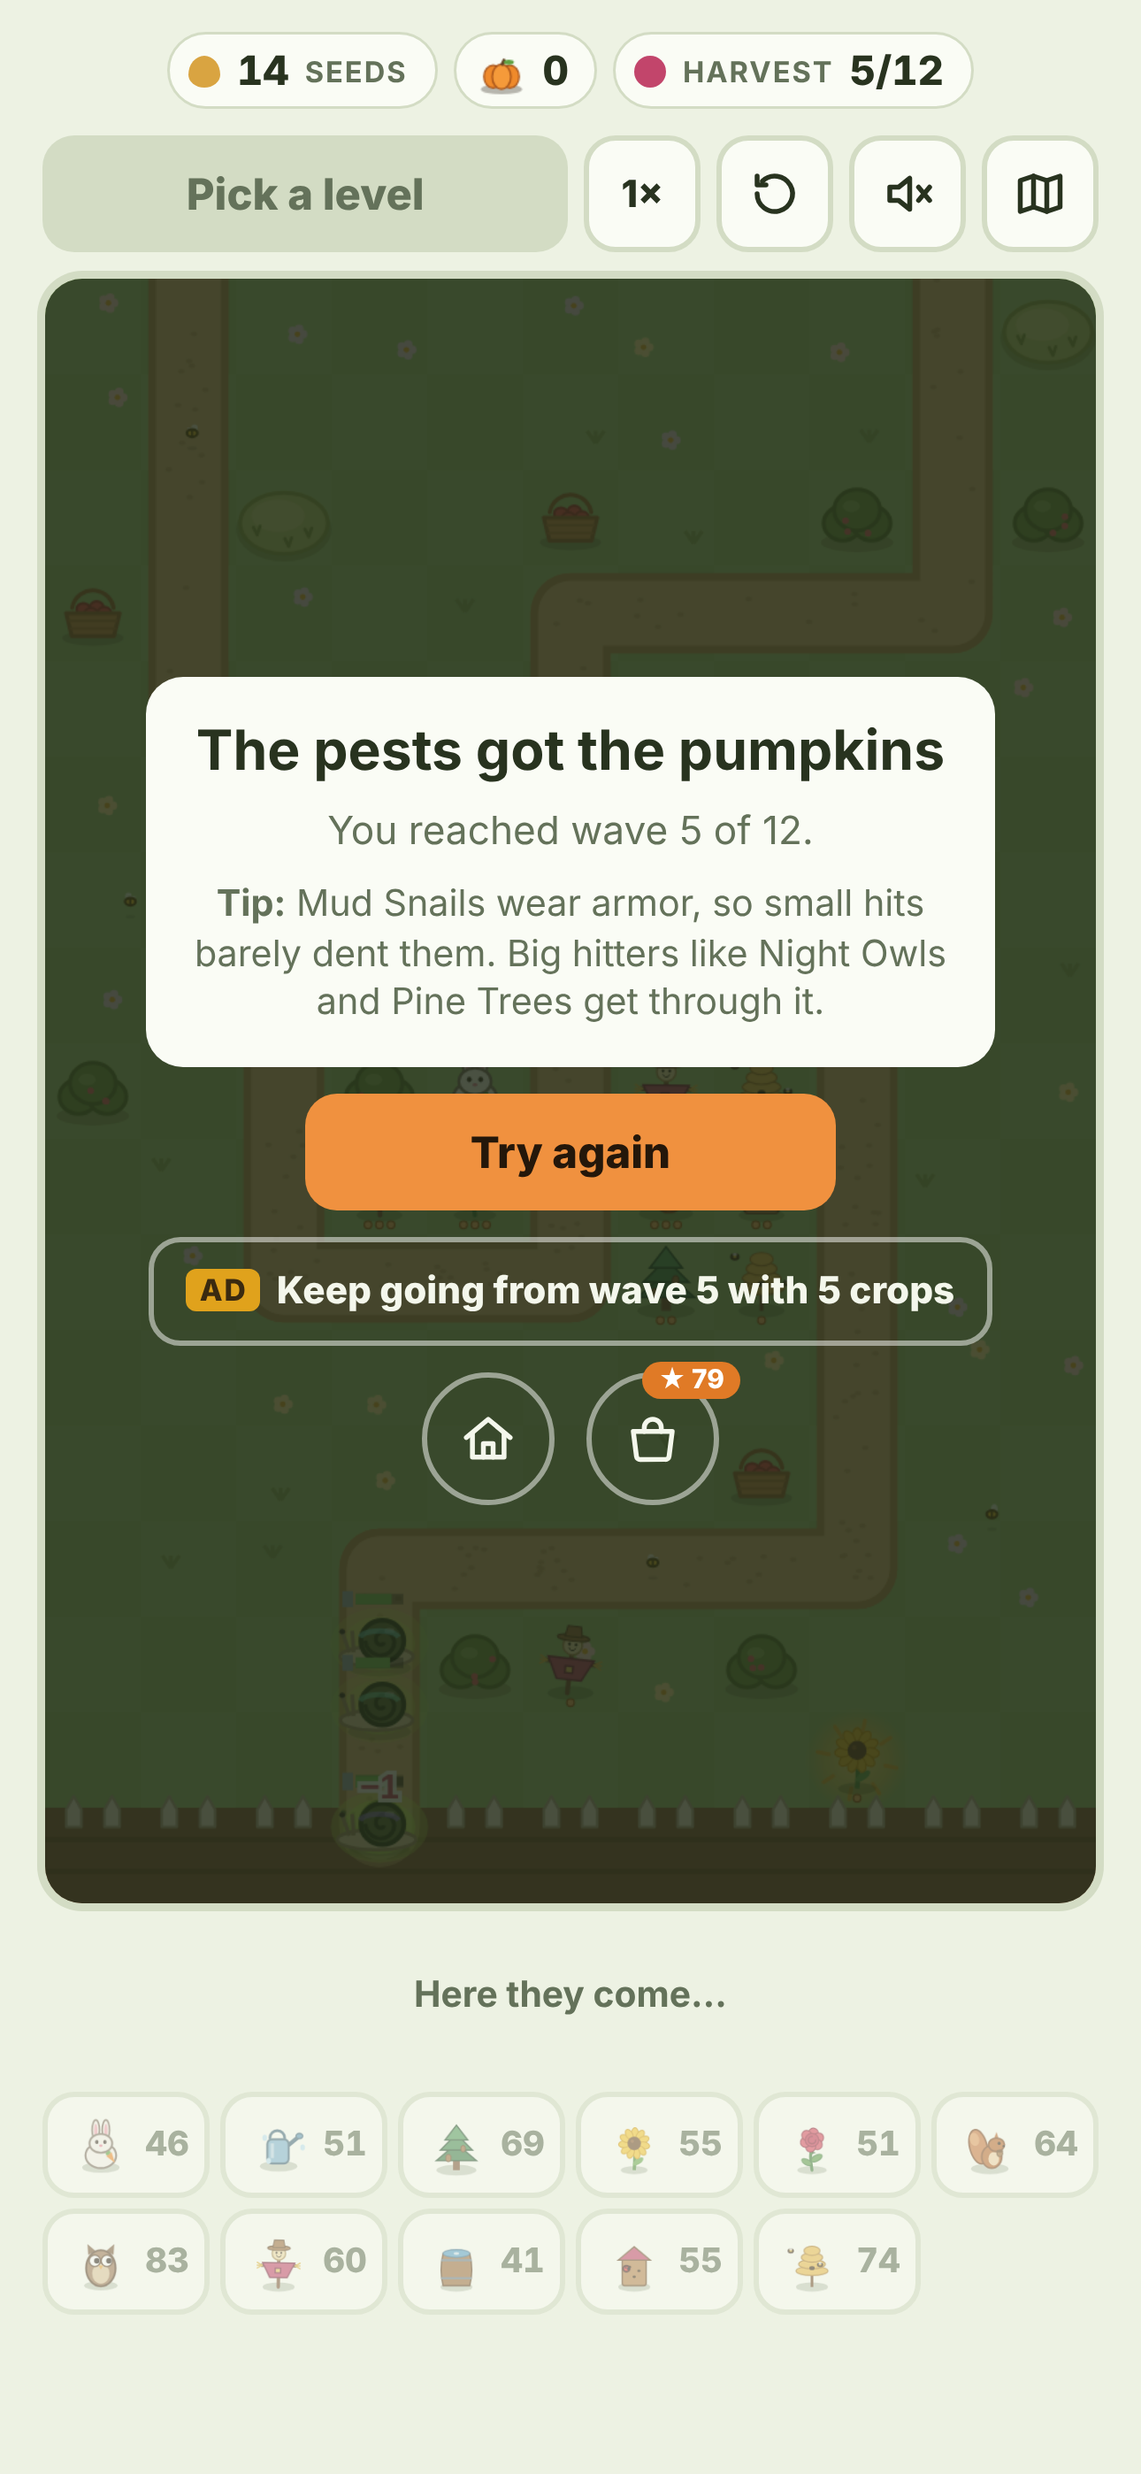
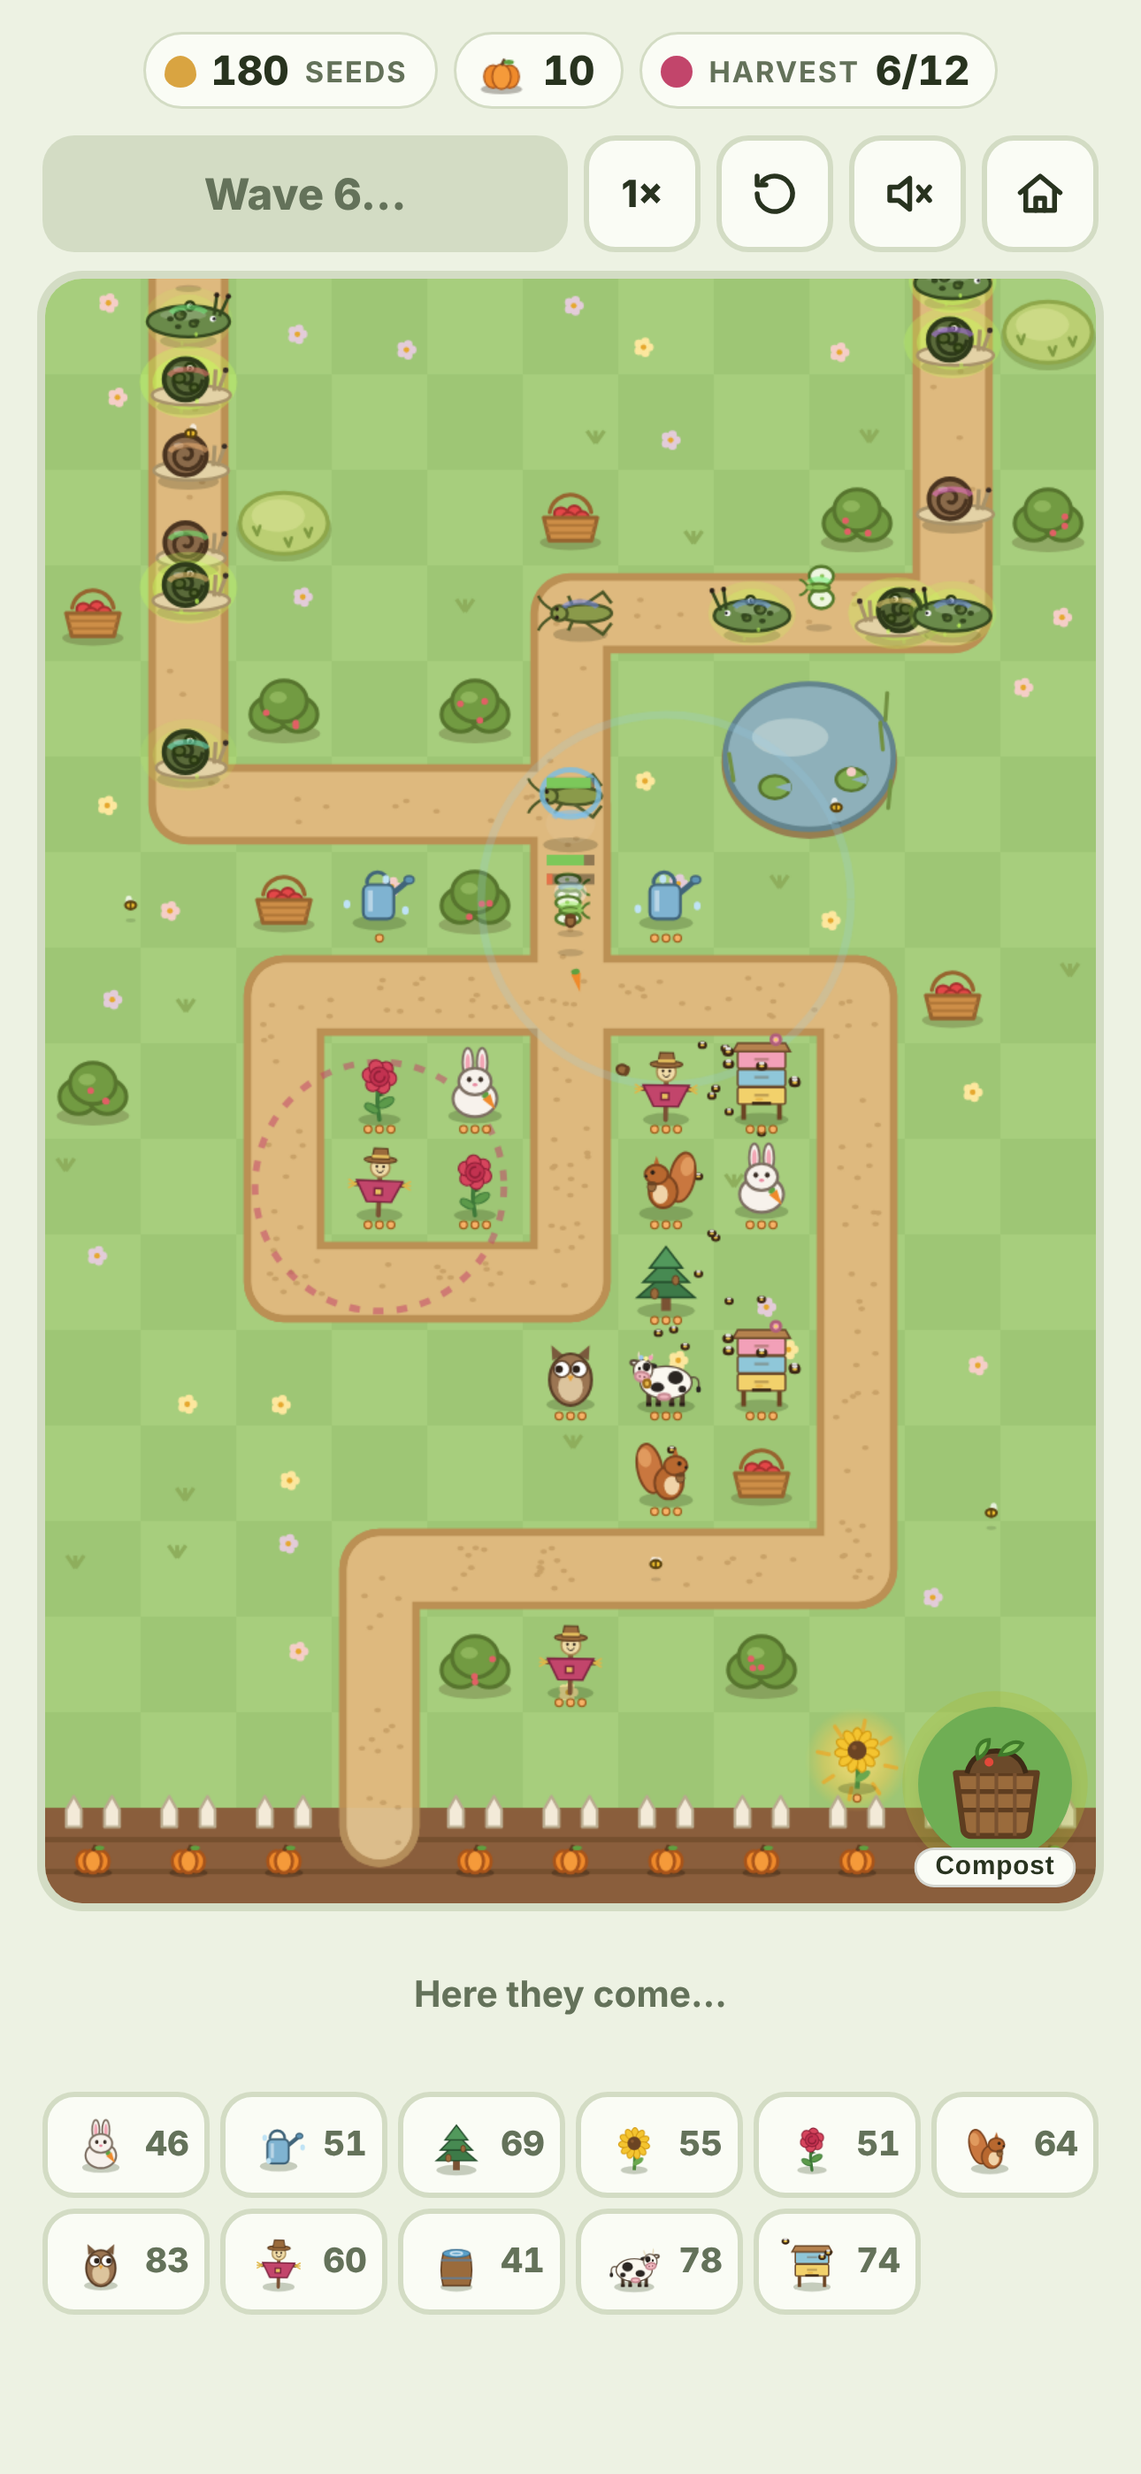
Launch prep: first-time-player test, offline cache, store materials, accessibility
- First-time-player test runs on every push (iPhone SE and Pixel 7), with screenshots
- Website caches every game file on the first visit, so the whole game and journal work offline
- Privacy policy and help pages, linked from Settings
- Store screenshots retaken (no loss screens); bigger bunny on the app icon so it reads at small sizes
- Settings: Reduce motion (no shake, confetti or page-turn animation)
- Android follows the phone's text size up to 115%; top bar fits with larger text
- Creek Sludge and its trail get a bright rim so they show on dark roads and for color-blind players
- Challenge-star note waits until the first garden is done

Claude-Session: https://claude.ai/code/session_019aK5YJJQRFsDyox8HTJbuZ

diff --git a/web/js/ui/ui.js b/web/js/ui/ui.js
@@ -471,7 +471,7 @@ function showDiary(at){
 // and its back (the next page) settles on the other side. Built from copies of the old and new pages,
 // laid over the new spread and removed when the turn ends.
 let turning=false;
-const reduceMotion = () => { try { return matchMedia('(prefers-reduced-motion: reduce)').matches; } catch(e){ return false; } };
+const reduceMotion = () => { if (document.documentElement.classList.contains('reduce-motion')) return true; try { return matchMedia('(prefers-reduced-motion: reduce)').matches; } catch(e){ return false; } };
 function copyPage(src){ const c=src.cloneNode(true); const a=src.querySelectorAll('canvas'), b=c.querySelectorAll('canvas');
   a.forEach((cv,i) => { b[i].width=cv.width; b[i].height=cv.height; try { b[i].getContext('2d').drawImage(cv,0,0); } catch(e){} }); return c; }
 function turnPage(dir){
@@ -565,6 +565,7 @@ function showSettings(){
       ${toggle('t-sfx','Sound effects',s.sfx)}
       ${toggle('t-music','Music',s.music)}
       ${toggle('t-haptics','Vibration',s.haptics!==false,'A small buzz when you plant, and when pests reach the crops.')}
+      ${toggle('t-motion','Reduce motion',!!s.calm,'No screen shake, confetti or page-turn animation.')}
     </div>
     <div class="set-group">
       <div class="set-row"><span><b>Gardener’s name</b><small>The name on the diary.</small></span>
@@ -591,7 +592,7 @@ function showSettings(){
       <div class="set-row"><span><b>Reset progress</b><small>Erase all stars, upgrades, unlocks and achievements.</small></span>
         <button class="reset-btn" data-go="reset">Reset</button></div>
     </div>`:''}
-    <p class="version">Carrot Patch Defense · version ${VERSION}</p>`);
+    <p class="version"><a href="https://lunde367.github.io/carrot-patch-defense/support.html" target="_blank" rel="noopener">Help</a> · <a href="https://lunde367.github.io/carrot-patch-defense/privacy.html" target="_blank" rel="noopener">Privacy</a><br>Carrot Patch Defense · version ${VERSION}</p>`);
   const gn=$('gName'); if (gn) gn.onchange=()=>{ Save.data.settings.name=gn.value.replace(/[<>&"']/g,'').trim().slice(0,12) || 'Robin'; Save.commit(); };
 }
 
@@ -623,6 +624,8 @@ const resultIcons = (replay=true) => `<div class="res-icons">
   ${replay?`<button class="btn ghost round" data-go="retry" aria-label="Play again" title="Play again">${ICON.restart}</button>`:''}</div>`;
 // Under a first win: the first time, what challenge stars are; later, a nudge if none have been earned yet.
 function chalNote(){
+  const beaten0=LEVELS.filter(l => (Save.data.stars[l.gi]||0)>0).length;
+  if (beaten0<3) return '';   // brand-new players get the basics first; challenges come up after the first garden
   if (!Save.data.seen.chalIntro){ Save.data.seen.chalIntro=true; Save.commit();
     return `<div class="nudge-box blue"><b>New: challenge stars ${CH_ICON}</b><span>Every level you beat now has extra goals (the little ${CH_ICON} marks under it on the map). Replay the level and meet them to earn ${CH_ICON}. Spend ${CH_ICON} in <b>Upgrades → Skills</b> to make a defender stronger for good.</span></div>`; }
   const beaten=LEVELS.filter(l => (Save.data.stars[l.gi]||0)>0).length;
@@ -778,6 +781,7 @@ async function onOverlayClick(ev){
     case 'part-ok': return nextIntro();
     case 'level-ok': return nextIntro();
     case 'rate': { const a=b.dataset.a; answerRating(Save, a); track('rating', { answer:a }); const box=$('rateBox'); if (box) box.innerHTML = a==='ok' ? '<b>Thank you!</b>' : '<span>No problem.</span>'; return; }
+    case 't-motion': { const s=Save.data.settings; s.calm=!s.calm; document.documentElement.classList.toggle('reduce-motion', s.calm); Save.commit(); showSettings(); return; }
     case 't-haptics': { const s=Save.data.settings; s.haptics=s.haptics===false; setHaptics(s.haptics); Save.commit(); haptic('medium'); showSettings(); return; }
     case 't-share': { const s=Save.data.settings; s.share=s.share===false; setTelemetry(s.share); Save.commit(); showSettings(); return; }
     case 'boon-pick': { const id=b.dataset.boon; if (takeBoon(id)){ G.S.paused=false; hideOverlay(); Audio.play('sparkle'); msg(`${BOONS[id].name}: ${BOONS[id].desc}`); dirty(); } return; }

diff --git a/web/privacy.html b/web/privacy.html
@@ -1,0 +1,55 @@
+<!doctype html>
+<html lang="en">
+<head>
+<meta charset="utf-8">
+<meta name="viewport" content="width=device-width, initial-scale=1">
+<title>Privacy · Carrot Patch Defense</title>
+<link rel="icon" type="image/png" sizes="32x32" href="icons/favicon-32.png">
+<style>
+  :root{ --bg:#edf2e3; --card:#fbfcf6; --ink:#243524; --muted:#5b6b55; --accent:#e07a2a; --line:#d6e0c8; color-scheme:light }
+  @media (prefers-color-scheme: dark){ :root{ --bg:#182016; --card:#212b1e; --ink:#e8efdc; --muted:#a9b79e; --accent:#f0913f; --line:#34412e; color-scheme:dark } }
+  body{ margin:0; background:var(--bg); color:var(--ink); font:16px/1.6 system-ui, -apple-system, "Segoe UI", sans-serif }
+  main{ max-width:42rem; margin:0 auto; padding:32px max(18px, env(safe-area-inset-left)) 56px }
+  h1{ font-size:1.8rem; line-height:1.2; margin:0 0 4px } h1 span{ color:var(--accent) }
+  h2{ font-size:1.15rem; margin:28px 0 6px }
+  p, li{ max-width:65ch } ul{ padding-left:1.2em } li{ margin:4px 0 }
+  .date{ color:var(--muted); margin:0 0 20px }
+  .card{ background:var(--card); border:1px solid var(--line); border-radius:14px; padding:4px 18px 10px; margin-top:18px }
+  a{ color:var(--accent) } nav{ margin-top:32px; color:var(--muted) }
+</style>
+</head>
+<body>
+<main>
+  <h1>Carrot Patch <span>Defense</span>: Privacy</h1>
+  <p class="date">Last updated November 20, 2026</p>
+  <p>Carrot Patch Defense is a garden game. It has no accounts and asks for no personal information. This page explains, in plain words, everything the game stores and sends.</p>
+
+  <div class="card">
+    <h2>Your progress stays on your device</h2>
+    <p>Stars, upgrades, journal pages, settings and the gardener's name you choose are saved only on your phone, tablet or browser. They are not sent anywhere. Deleting the app (or clearing the browser's site data) deletes them.</p>
+  </div>
+
+  <h2>Anonymous play statistics</h2>
+  <p>To help balance the levels, the game can send a few anonymous facts about play, such as "level 7 won with 3 stars on Normal" or "the tutorial was finished". These facts:</p>
+  <ul>
+    <li>never include your name, the gardener's name, an account, an advertising ID or any device or install ID;</li>
+    <li>can't be linked to you or to each other;</li>
+    <li>are sent over a secure connection without cookies.</li>
+  </ul>
+  <p>You can turn this off any time in <b>Settings → Share anonymous play data</b>.</p>
+
+  <h2>Ads</h2>
+  <p>The phone apps offer optional video ads that you choose to watch for a reward, like extra seeds. Nothing plays unless you tap an ad button. These ads are provided by Google AdMob, which may use your device's advertising identifier to show and measure ads. Google's practices are described in <a href="https://policies.google.com/technologies/ads">How Google uses information from sites or apps that use its services</a>. You can limit ad tracking in your phone's settings. The website version shows no ads.</p>
+
+  <h2>Purchases</h2>
+  <p>The one-time "Remove Ads" purchase is handled entirely by Apple's App Store or Google Play. The game never sees your payment details; it only learns whether the purchase was made.</p>
+
+  <h2>Children</h2>
+  <p>The game is made to be enjoyed by all ages. It does not knowingly collect personal information from anyone, including children.</p>
+
+  <h2>Changes and questions</h2>
+  <p>If this policy changes, the new version will be posted on this page with a new date. Questions are welcome on the <a href="support.html">support page</a>.</p>
+  <nav><a href="./">Play the game</a> · <a href="support.html">Support</a></nav>
+</main>
+</body>
+</html>

diff --git a/web/support.html b/web/support.html
@@ -1,0 +1,40 @@
+<!doctype html>
+<html lang="en">
+<head>
+<meta charset="utf-8">
+<meta name="viewport" content="width=device-width, initial-scale=1">
+<title>Support · Carrot Patch Defense</title>
+<link rel="icon" type="image/png" sizes="32x32" href="icons/favicon-32.png">
+<style>
+  :root{ --bg:#edf2e3; --card:#fbfcf6; --ink:#243524; --muted:#5b6b55; --accent:#e07a2a; --line:#d6e0c8; color-scheme:light }
+  @media (prefers-color-scheme: dark){ :root{ --bg:#182016; --card:#212b1e; --ink:#e8efdc; --muted:#a9b79e; --accent:#f0913f; --line:#34412e; color-scheme:dark } }
+  body{ margin:0; background:var(--bg); color:var(--ink); font:16px/1.6 system-ui, -apple-system, "Segoe UI", sans-serif }
+  main{ max-width:42rem; margin:0 auto; padding:32px max(18px, env(safe-area-inset-left)) 56px }
+  h1{ font-size:1.8rem; line-height:1.2; margin:0 0 12px } h1 span{ color:var(--accent) }
+  h2{ font-size:1.05rem; margin:0 0 4px }
+  p{ max-width:65ch; margin:0 }
+  .q{ background:var(--card); border:1px solid var(--line); border-radius:14px; padding:14px 18px; margin-top:12px }
+  a{ color:var(--accent) } nav{ margin-top:32px; color:var(--muted) }
+</style>
+</head>
+<body>
+<main>
+  <h1>Carrot Patch <span>Defense</span>: Help</h1>
+  <p>Stuck on a garden, lost a purchase, or found a bug? Answers to common questions are below. For anything else, <a href="https://github.com/lunde367/carrot-patch-defense/issues">leave a note here</a> and say which phone you're using.</p>
+
+  <div class="q"><h2>I keep losing a level. What can I do?</h2>
+    <p>Spend your stars in the Garden Shed (Upgrades): those upgrades help in every level. Replay gardens you've beaten to earn challenge stars ✦, and spend them on Skills to make a defender stronger for good. You can also switch to Easy any time in Settings.</p></div>
+  <div class="q"><h2>Where is my progress saved?</h2>
+    <p>On your device only. If you delete the app, your progress is deleted too, and it doesn't move to a new phone by itself.</p></div>
+  <div class="q"><h2>I bought Remove Ads. How do I get it back on a new phone?</h2>
+    <p>Open Settings and tap <b>Restore purchases</b>, signed in with the same Apple or Google account you bought it with.</p></div>
+  <div class="q"><h2>How do I replay the tutorial?</h2>
+    <p>Settings → Tutorial → Replay.</p></div>
+  <div class="q"><h2>The screen moves too much for me.</h2>
+    <p>Turn on <b>Settings → Reduce motion</b> to stop screen shake, confetti and page-turn animations.</p></div>
+  <div class="q"><h2>What does the game collect?</h2>
+    <p>No personal information. See the <a href="privacy.html">privacy page</a> for the details.</p></div>
+  <nav><a href="./">Play the game</a> · <a href="privacy.html">Privacy</a></nav>
+</main>
+</body>
+</html>

diff --git a/web/sw.js b/web/sw.js
@@ -1,8 +1,12 @@
 // Offline cache for the web and home-screen versions. (The store apps carry their own files.)
 // Every file is fetched fresh when there's a connection (so an update shows up right away and all files
 // match), and kept in the cache so the game still opens offline.
-const CACHE = 'carrot-patch-v2';
-self.addEventListener('install', () => self.skipWaiting());
+const CACHE = 'carrot-patch-v3';
+// On install, fetch every file the game uses (listed in precache.json), so the whole game, journal
+// pictures included, works offline after the first visit. A failed file is simply fetched later.
+self.addEventListener('install', e => { self.skipWaiting(); e.waitUntil(caches.open(CACHE).then(async cache => {
+  try { const list = await (await fetch('precache.json', { cache:'no-cache' })).json();
+    await Promise.all(list.map(f => cache.add(new Request(f, { cache:'no-cache' })).catch(() => {}))); } catch(e){} })); });
 self.addEventListener('activate', e => e.waitUntil(
   caches.keys().then(keys => Promise.all(keys.filter(k => k!==CACHE).map(k => caches.delete(k)))).then(() => self.clients.claim())));
 self.addEventListener('fetch', e => {

diff --git a/web/css/game.css b/web/css/game.css
@@ -476,8 +476,14 @@ canvas{ display:block }
 @media (max-width: 400px){
   .controls{ gap:4px }
   .controls .btn.icon, .controls #spd{ min-width:38px; padding-inline:6px }
-  .controls .btn.main{ font-size:.92rem; padding-inline:8px; white-space:nowrap }
+  .controls .btn.main{ font-size:.86rem; padding-inline:6px; white-space:nowrap; letter-spacing:-.01em }
+  #seedsChip small{ display:none }   /* the seed dot already says "seeds"; frees room for larger text */
+  .stats{ gap:6px }
 }
 /* a locked part's hint wraps under the title on narrow screens instead of running into it */
 .part.locked b{ flex:none }
 .part.locked .part-meta{ flex:1 1 0; min-width:0; text-align:right; white-space:normal }
+
+/* Settings → Reduce motion: the same calm look the phone's own setting gives */
+html.reduce-motion *, html.reduce-motion *::before, html.reduce-motion *::after{ animation-duration:.001s !important; animation-iteration-count:1 !important; transition-duration:.001s !important }
+.version a{ color:inherit; font-weight:800 }

diff --git a/web/js/render/art-enemies.js b/web/js/render/art-enemies.js
@@ -9,7 +9,7 @@ function sludge(c,e,r,D){
   c.beginPath(); c.moveTo(-r*1.1,r*.55);
   c.bezierCurveTo(-r*1.25,-r*.2,-r*.6,-r*(1+wb),0,-r*(.95-wb)); c.bezierCurveTo(r*.7,-r*(1-wb),r*1.25,-r*.15,r*1.1,r*.55);
   c.quadraticCurveTo(r*.55,r*.78,0,r*.6); c.quadraticCurveTo(-r*.55,r*.8,-r*1.1,r*.55); c.closePath();
-  c.fillStyle=D.col; c.fill(); c.strokeStyle=D.dk; c.lineWidth=Math.max(1.2,r*.08); c.stroke();
+  c.fillStyle=D.col; c.fill(); c.strokeStyle='rgba(205,245,120,.85)'; c.lineWidth=Math.max(1.6,r*.11); c.stroke();   // a sickly bright rim, so it shows on dark roads too
   const hue=(e.ph*25)%360; c.strokeStyle=`hsla(${hue},70%,62%,.55)`; c.lineWidth=Math.max(1.5,r*.12);   // oil-slick sheen
   c.beginPath(); c.ellipse(-r*.2,-r*.3,r*.55,r*.25,-.3,3.3,5.6); c.stroke();
   c.strokeStyle=`hsla(${(hue+120)%360},70%,62%,.4)`; c.beginPath(); c.ellipse(r*.25,r*.05,r*.5,r*.2,.2,3.4,5.4); c.stroke();

diff --git a/web/js/render/board.js b/web/js/render/board.js
@@ -232,7 +232,7 @@ export function draw(clock){
   // Sludge trail: black oily smears with a rainbow sheen that shrink as they dry
   if (S.slime && S.slime.length){ const tt=clockReal();
     for (const p of S.slime){ const f=Math.min(1,p.life/3), w=s*(.22+.08*Math.sin(p.seed));
-      ell(g,p.x*s,p.y*s+s*.08,w*f+s*.06,w*.5*f+s*.03,`rgba(28,28,18,${.55*f+.1})`);
+      ell(g,p.x*s,p.y*s+s*.08,w*f+s*.06,w*.5*f+s*.03,`rgba(28,28,18,${.55*f+.1})`,`rgba(205,245,120,${.45*f})`,1.5);
       g.beginPath(); g.ellipse(p.x*s,p.y*s+s*.06,w*.6*f+s*.03,w*.22*f+s*.01,p.seed,3.4,5.8); g.strokeStyle=`hsla(${(tt*40+p.seed*60)%360},70%,62%,${.45*f})`; g.lineWidth=1.5; g.stroke(); } }
   // Cow pats: brown splats with green stink curling up
   if (S.piles && S.piles.length){ const tt=clockReal();

diff --git a/tools/icons/art.html b/tools/icons/art.html
@@ -16,7 +16,7 @@ function iconScene(){
   path(); g.strokeStyle='#b48d5a'; g.lineWidth=S*.15; g.stroke(); path(); g.strokeStyle='#dcbd8b'; g.lineWidth=S*.12; g.stroke();
   const R=rng(3); for (let i=0;i<40;i++){ ell(g,S*(.1+R()*.8),S*(.1+R()*.8),S*.006,S*.004,'rgba(160,120,70,.25)'); }
   for (const [x,y] of [[.12,.9],[.36,.92],[.86,.86]]) drawCrop(g,'cabbage',S*x,S*y,S*.3);
-  g.save(); g.translate(S*.5,S*.5); DRAW.bunny(g,S*.62,0,0,0,1); g.restore();
+  g.save(); g.translate(S*.5,S*.52); DRAW.bunny(g,S*.86,0,0,0,1); g.restore();   // big enough to read at 29 px
 }
 function splashScene(){
   g.fillStyle = dark ? '#182016' : '#edf2e3'; g.fillRect(0,0,S,S);

diff --git a/web/kit/js/fx.js b/web/kit/js/fx.js
@@ -1,6 +1,6 @@
 // Feel-good effects for the game family: toasts, confetti and screen shake.
 // All of them respect the player's "reduce motion" setting.
-const reduced = () => window.matchMedia && window.matchMedia('(prefers-reduced-motion: reduce)').matches;
+const reduced = () => document.documentElement.classList.contains('reduce-motion') || (window.matchMedia && window.matchMedia('(prefers-reduced-motion: reduce)').matches);
 
 // ---------- toast: a small message that slides in at the top and leaves on its own ----------
 let toastBox = null;

diff --git a/web/js/main.js b/web/js/main.js
@@ -89,6 +89,7 @@ async function boot(){
   bindSave(Save); initAds(ADS);
   Audio.init(Save.data.settings);
   setHaptics(Save.data.settings.haptics!==false);
+  document.documentElement.classList.toggle('reduce-motion', !!Save.data.settings.calm);
   initTelemetry({ ...TELEMETRY, version:VERSION, enabled:Save.data.settings.share!==false }); track('app_open');
   initBoard(document.getElementById('cv'), document.getElementById('board'));
   initUI();
